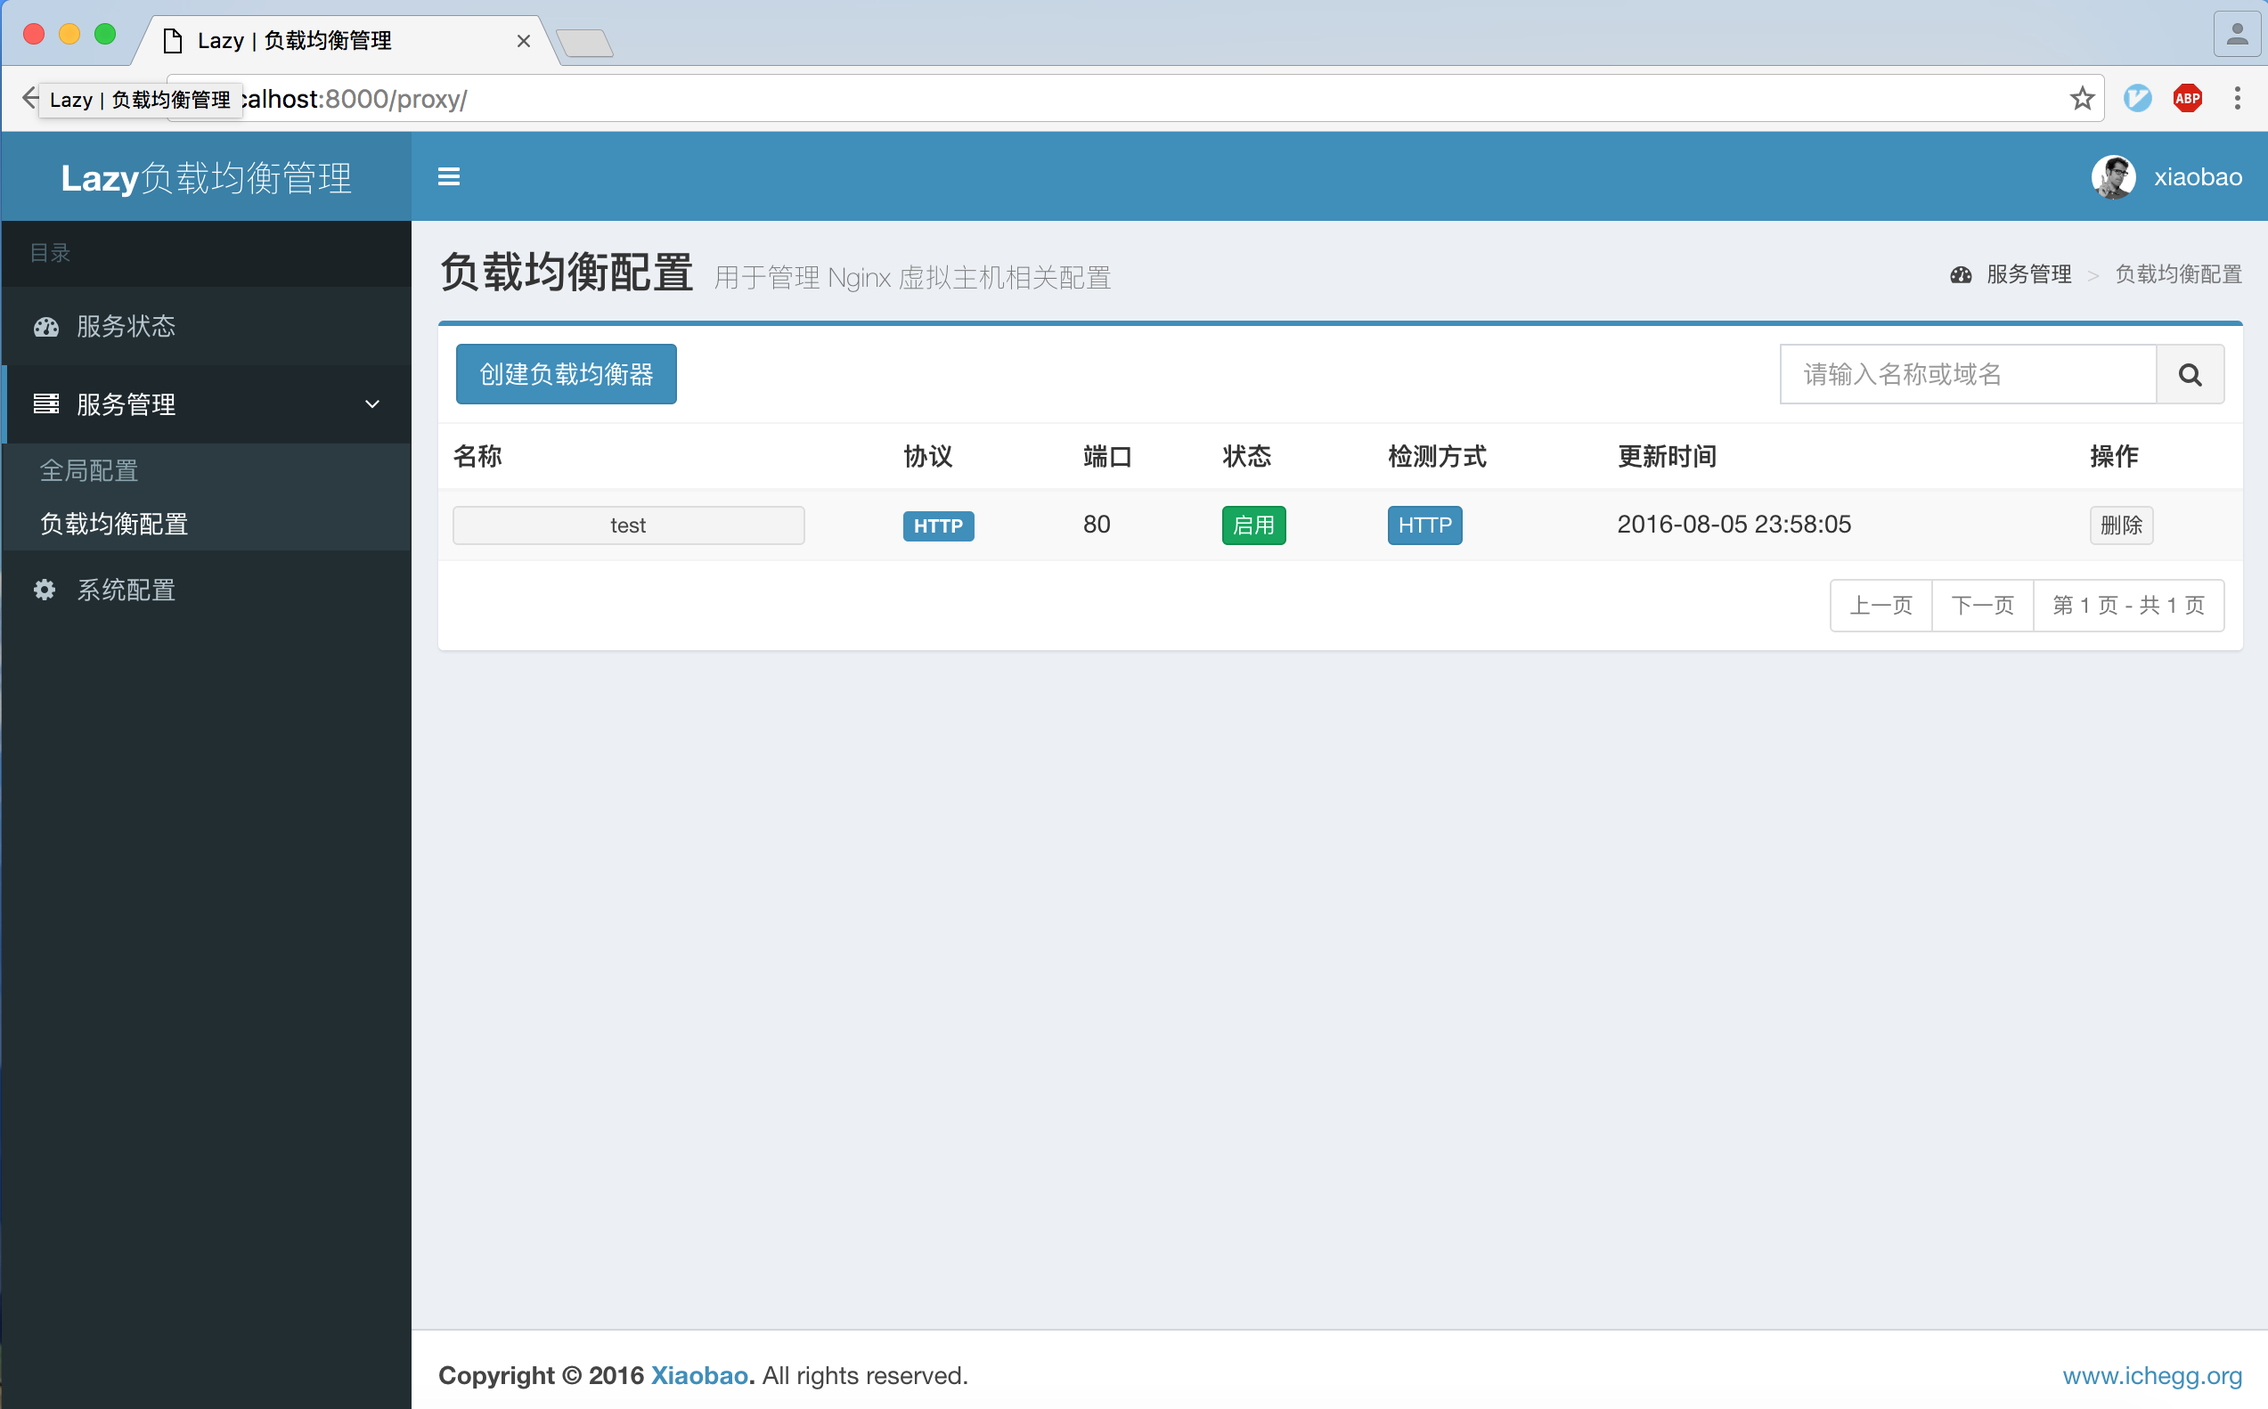
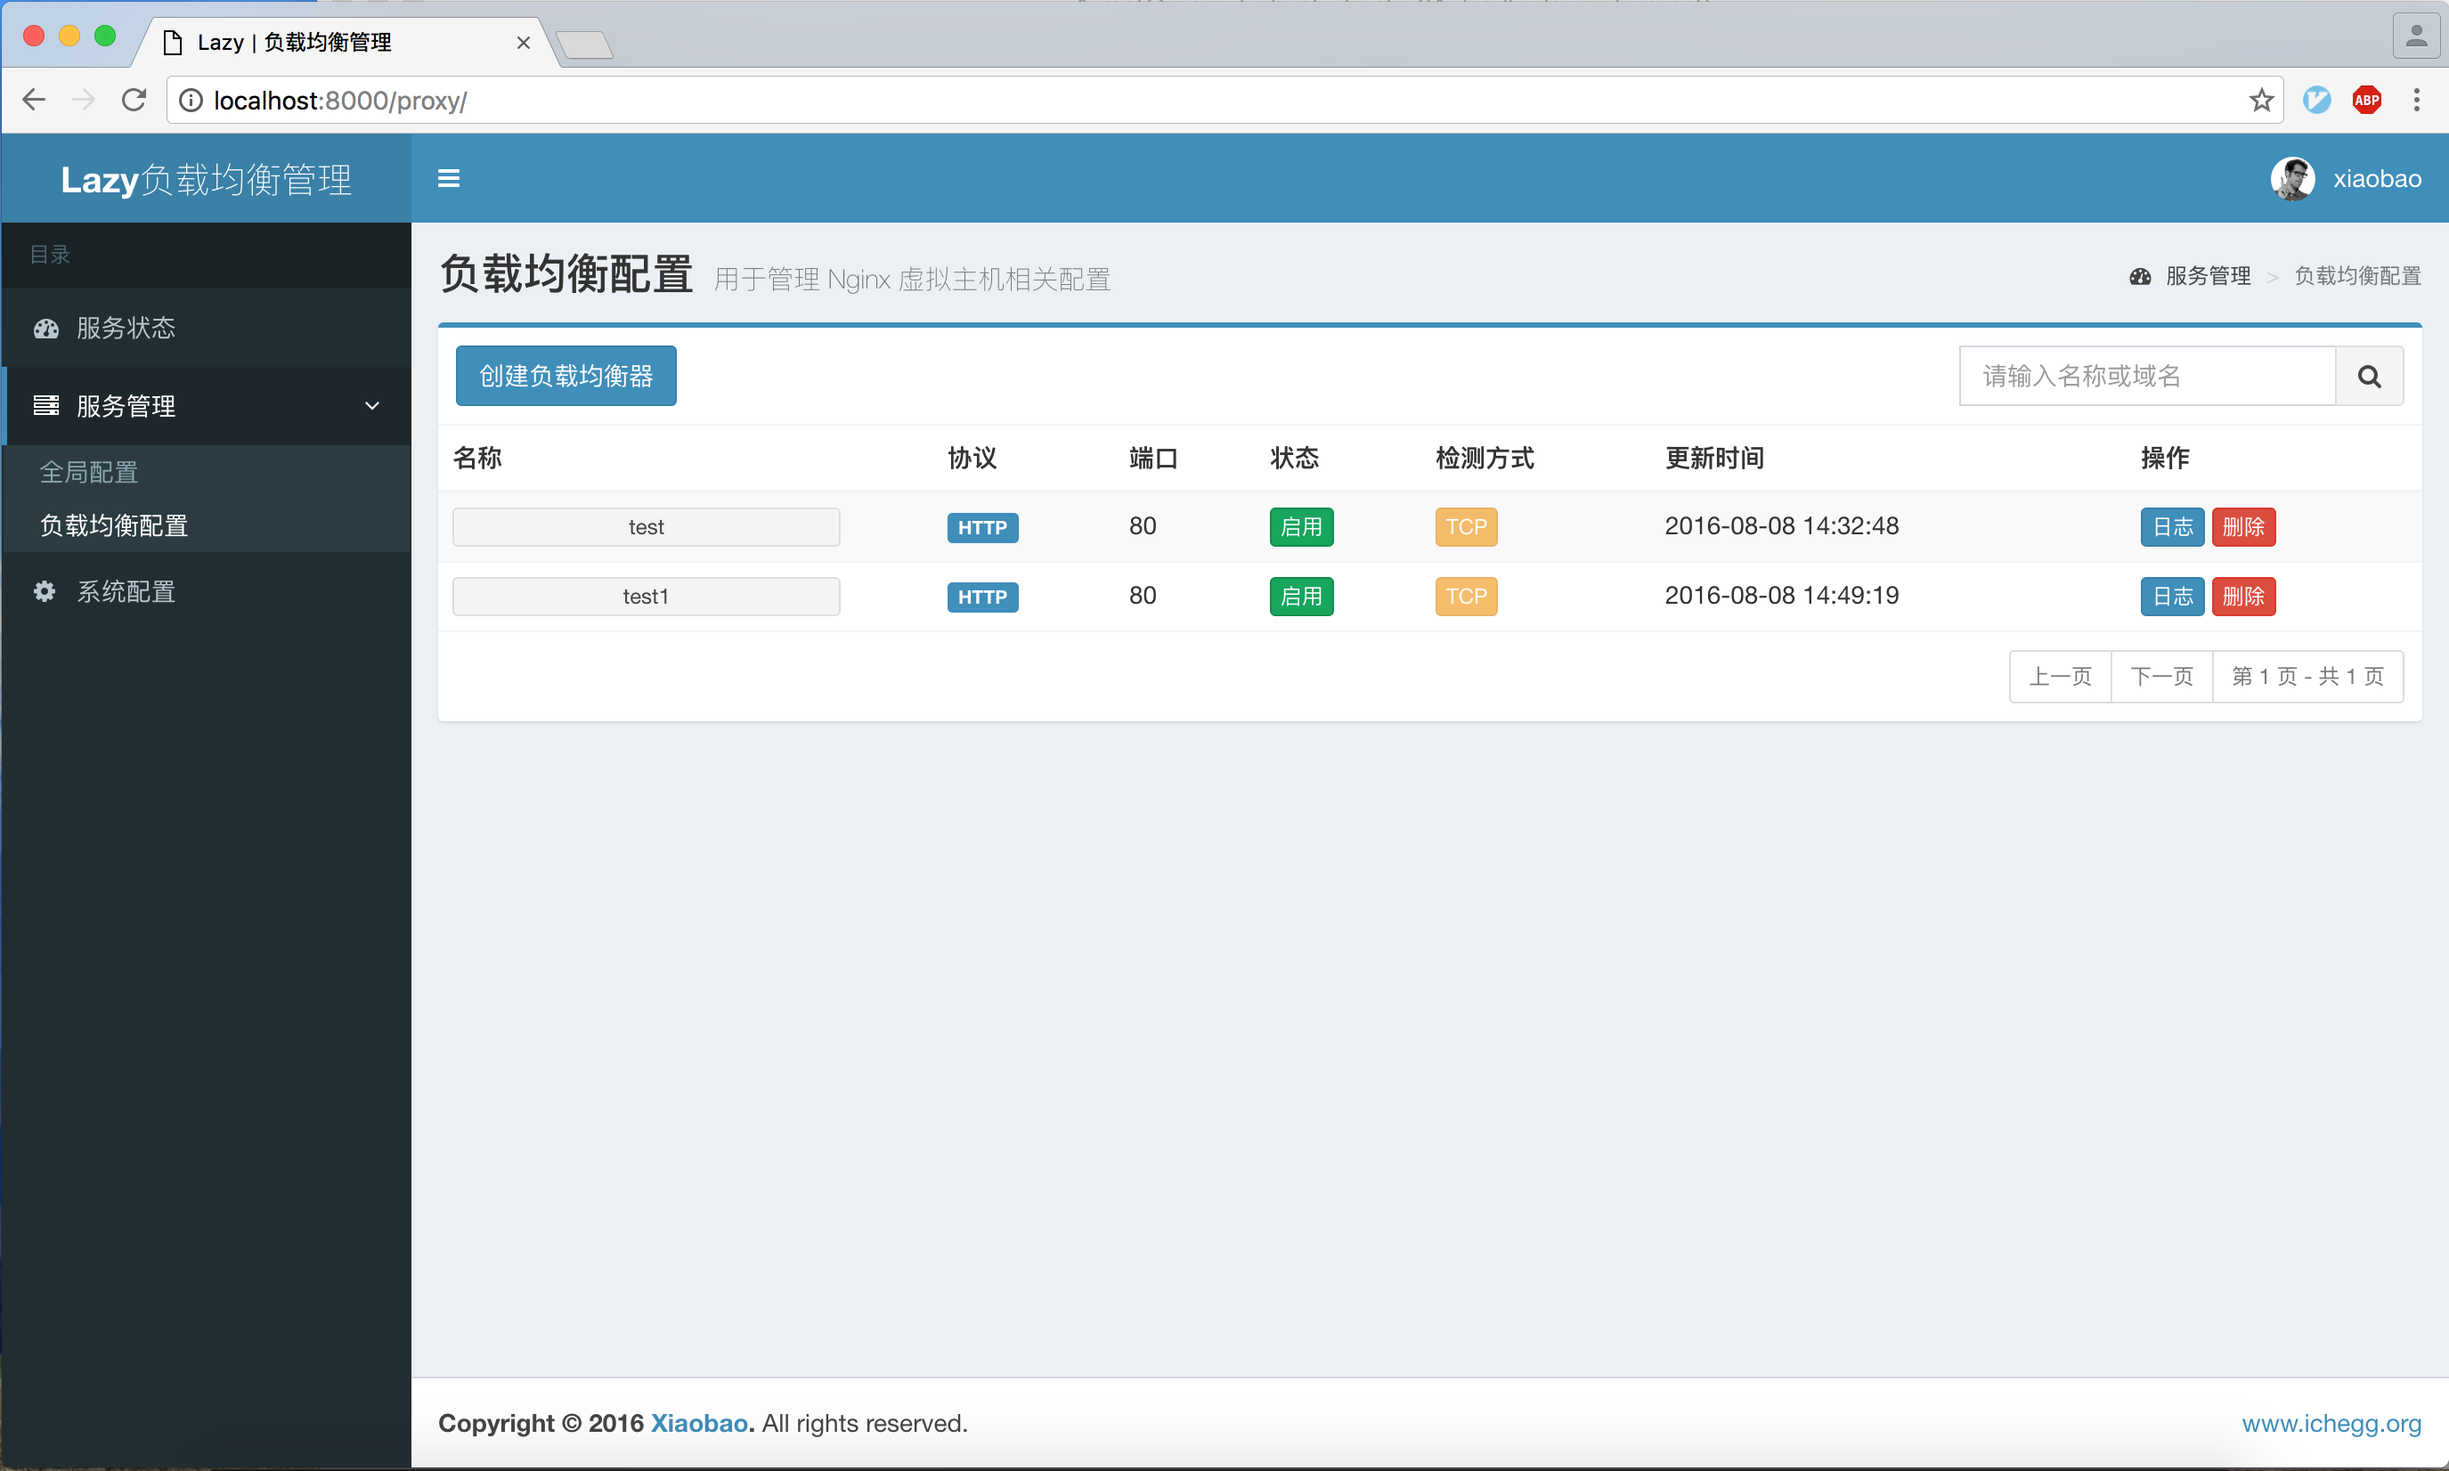
add get proxy logs

diff --git a/templates/proxy/view.html b/templates/proxy/view.html
@@ -29,6 +29,35 @@
     </div>
 </div>
 
+<div class="modal fade" id="proxy_logs" tabindex="-1" role="dialog">
+    <div class="modal-dialog modal-lg">
+        <div class="modal-content">
+            <div class="modal-header">
+                <button type="button" class="close" data-dismiss="modal" aria-label="Close"><span aria-hidden="true">&times;</span></button>
+                <h4 class="modal-title" id="proxy_logs_title">节点日志</h4><small id="proxy_logs_mtitle"></small>
+            </div>
+            <div class="modal-body">
+                <div class="nav-tabs-custom">
+                    <ul class="nav nav-tabs">
+                        <li class="active"><a href="#tab_access_log" data-toggle="tab" id="a_access_log">访问日志</a></li>
+                        <li><a href="#tab_error_log" data-toggle="tab">错误日志</a></li>
+                    </ul>
+                    <div class="tab-content">
+                        <div class="tab-pane active" id="tab_access_log">
+                            <textarea id="tail_access" class="form-control" rows="20" readonly="readonly"></textarea>
+                        </div>
+                        <div class="tab-pane" id="tab_error_log">
+                            <textarea id="tail_error" class="form-control" rows="20" readonly="readonly"></textarea>
+                        </div>
+                    </div>
+                </div>
+            </div>
+            <div class="modal-footer">
+                <button type="button" class="btn btn-default" data-dismiss="modal">关闭</button>
+            </div>
+        </div>
+    </div>
+</div>
 
 <div class="modal fade" id="edit_balancer" tabindex="-1" role="dialog">
     <div class="modal-dialog modal-lg">
@@ -259,7 +288,8 @@
                             {% endif %}
                             <td>{{ server.update_time | timestamp_to_date }}</td>
                             <td>
-                                <button type="button" class="btn btn-default btn-xs" onclick="delete_proxy('{{ server.pk }}','{{ server.proxy_name }}')">删除</button>
+                                <button type="button" class="btn btn-primary btn-xs" onclick="get_proxy_logs('{{ server.pk }}')">日志</button>
+                                <button type="button" class="btn btn-danger btn-xs" onclick="delete_proxy('{{ server.pk }}','{{ server.proxy_name }}')">删除</button>
                             </td>
                         </tr>
                         {% endfor %}
@@ -478,16 +508,16 @@ function proxy_status(pk) {
 
                 for (var f in p.status.servers.server) {
                     var server = p.status.servers.server[f]
-                    if (server.upstream == p.config_id){
+                    if (server.upstream == p.config_id) {
                         tb = '<tr>'
                         tb += '<td>' + server.index + '</td>'
                         tb += '<td>' + server.name + '</td>'
                         tb += '<td>' + server.rise + '</td>'
                         tb += '<td>' + server.fall + '</td>'
-                        if (server.status == "up"){
-                          tb += '<td><span class="label label-success">正常</span></td>'
-                        }else{
-                          tb += '<td><span class="label label-warning">异常</span></td>'
+                        if (server.status == "up") {
+                            tb += '<td><span class="label label-success">正常</span></td>'
+                        } else {
+                            tb += '<td><span class="label label-warning">异常</span></td>'
                         }
                         tb += '</tr>'
                         $('#div_proxy_status_list').append(tb)
@@ -506,6 +536,82 @@ function proxy_status(pk) {
             alert('请求失败!')
         }
     })
+}
+
+var t
+$(function() {
+    $('#proxy_logs').on('hide.bs.modal', function() {
+        $("#tail_access").empty()
+        $("#tail_error").empty()
+        clearTimeout(t)
+    })
+});
+
+var tailswitch = false;
+
+function tailScroll(tail) {
+    var height = tail.get(0).scrollHeight;
+    tail.animate({
+        scrollTop: height
+    }, 500);
+    if (tail.val().split("\n").length > 500) {
+        tail.empty()
+    }
+}
+
+function get_proxy_logs(pk, position) {
+    if (position == null) {
+        $('#a_access_log').trigger('click')
+        $("#tail_access").empty()
+        $("#tail_error").empty()
+
+        position = {
+            "access": 0,
+            "error": 0
+        }
+        get_proxy_logs(pk, position)
+
+        $('#proxy_logs').modal('show')
+    } else {
+        tailswitch = true
+        post = {
+            "curr_position": position,
+            "pk": pk
+        }
+        jQuery.ajax({
+            type: 'post',
+            url: '/proxy/logs/',
+            data: JSON.stringify(post),
+            dataType: 'json',
+            success: function(p) {
+                if (p.flag == "Success") {
+                    if (p.log_body.access != "") {
+                        $('#tail_access').append(p.log_body.access)
+                        tailScroll($("#tail_access"))
+                    }
+                    if (p.log_body.error != "") {
+                        $('#tail_error').append(p.log_body.error)
+                        tailScroll($("#tail_error"))
+                    }
+
+                    t = setTimeout(function() {
+                        get_proxy_logs(pk, p.curr_position);
+                    }, 2000)
+
+                } else if (p.flag == "Error") {
+                    $("#tail_access").empty()
+                    $("#tail_error").empty()
+                    clearTimeout(t)
+                    alert('查询失败！错误：' + p.context)
+                }
+
+                if (p.flag == "Error" && p.context == "AuthFailed") {
+                    alert('认证失败！请重新登录！')
+                    top.location = '/login/'
+                }
+            },
+        })
+    }
 }
 
 function change_status(pk, status) {
@@ -540,6 +646,7 @@ function change_status(pk, status) {
 function proxy_filter() {
     window.location = '/proxy/?filter=' + $('#input_proxy_filter').val()
 }
+
 
 function save_balancer() {
     if (confirm("确认要保存这样的配置？")) {

diff --git a/proxy/views.py b/proxy/views.py
@@ -118,6 +118,54 @@ def change_status(request):
     pass
 
 @is_auth
+def proxy_logs(request):
+    try:
+        post = json.loads(request.body)
+
+        curr_position = {"access":0,"error":0}
+        curr_position['access'] = int(post['curr_position']['access'])
+        curr_position['error'] = int(post['curr_position']['error'])
+
+        proxy = proxy_config.objects.get(pk=post['pk'])
+
+        log_body = {"access":"","error":""}
+
+        with open(proxy.access_log) as file_:
+            file_.seek(0,2)
+
+            if curr_position['access'] != 0:
+                file_.seek(curr_position['access'])
+                line = file_.readline()
+
+                while line:
+                    log_body['access'] += line
+                    curr_position['access'] = file_.tell()
+                    line = file_.readline()
+
+            curr_position['access'] = file_.tell()
+
+        with open(proxy.error_log) as file_:
+            file_.seek(0,2)
+
+            if curr_position['error'] != 0:
+                file_.seek(curr_position['error'])
+                line = file_.readline()
+
+                while line:
+                    log_body['error'] += line
+                    curr_position['error'] = file_.tell()
+                    line = file_.readline()
+
+            curr_position['error'] = file_.tell()
+
+        context = { "flag":"Success" , "log_body":log_body , "curr_position":curr_position }
+    except Exception, e:
+        context = { "flag":"Error","context":str(e) }
+
+    return HttpResponse(json.dumps(context))
+    pass
+
+@is_auth
 def save(request):
     try:
         post = json.loads(request.body)

diff --git a/proxy/urls.py b/proxy/urls.py
@@ -24,5 +24,6 @@ urlpatterns = [
     url(r'^checkhttp/$', views.check_http_status),
     url(r'^delete/$', views.delete_proxy),
     url(r'^query/$', views.query_proxy),
+    url(r'^logs/$', views.proxy_logs),
     #url(r'^/(?P<action>.*)$', views.action),
 ]

diff --git a/README.md b/README.md
@@ -15,6 +15,7 @@
 * 修复因主机头导致后端服务器探测失败
 * 新增自定义管理员用户
 * 新增配置通过文件备份和还原
+* 新增实时查看访问日志和错误日志
 * 更新 Vagrantfile
 * 修复其他 Bug
 
@@ -89,3 +90,4 @@ http://[IP]:8000/
 ![image](readme_img/7.png)
 ![image](readme_img/8.png)
 ![image](readme_img/9.png)
+![image](readme_img/10.png)
